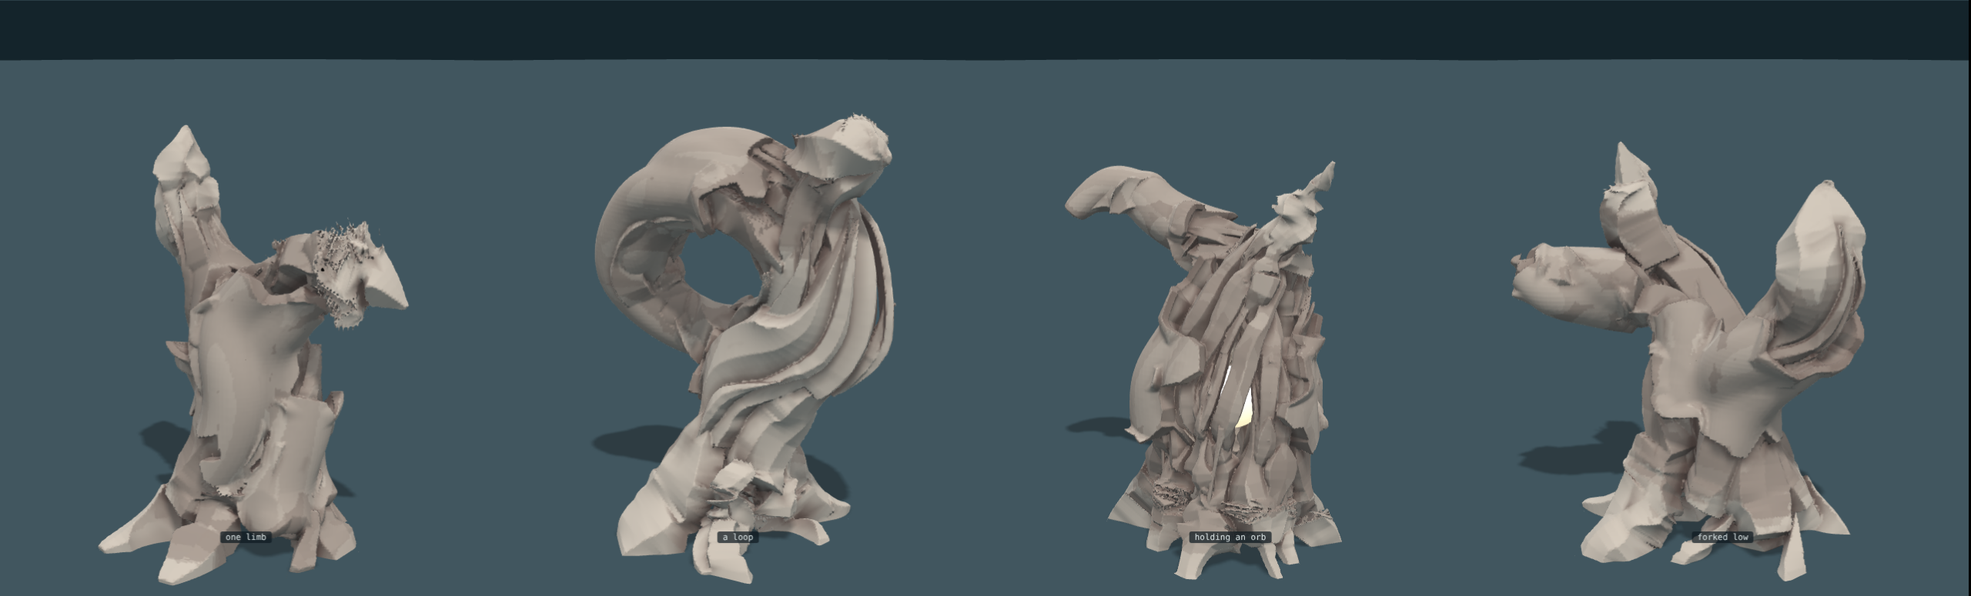
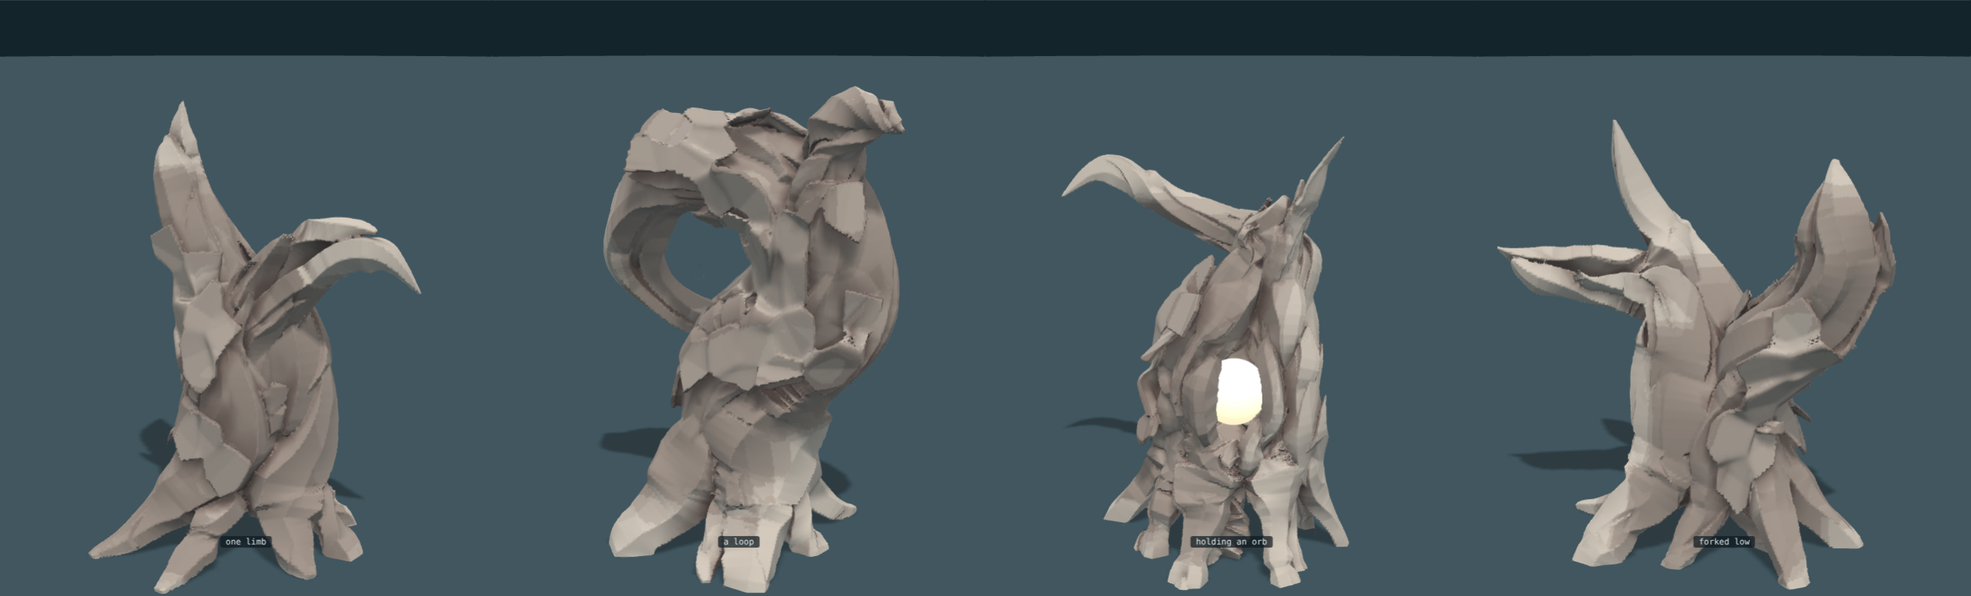
Bark as one creased sheet of flat plates resting on the wood; pieces overlap by their cut; tears start at spread heights; threads off; lips keep a thickness
Claude-Session: https://claude.ai/code/session_0192rgp75jGkttZXf7hEakip

diff --git a/sketch/page7.js b/sketch/page7.js
@@ -53,24 +53,30 @@
       return { g, dir }; });
     for (const [si, s] of t.strands.entries()) {
       // where a torn part still runs with what it tore from it is not drawn: there the two are one, and the other carries the girth
-      const fine = !!s.vine, ridge0 = 0.7 * (r() - 0.5); let kA = 0, kB = s.K - 1; if (fine && !s.thread) { while (kA < kB && s.rho[kA] < 0.013) kA++; while (kB > kA && s.rho[kB] < 0.013) kB--; if (kB - kA < 5) continue; }
-      const K = kB + 1; let k = kA, first = true;
+      const fine = !!s.vine, ridge0 = 0.7 * (r() - 0.5); let kA = 0, kB = s.K - 1; if (fine && !s.thread) { while (kA < kB && s.rho[kA] < 0.02) kA++; while (kB > kA && s.rho[kB] < 0.02) kB--; if (kB - kA < 5) continue; }
+      const K = kB + 1; let k = kA, first = true, backBy = 3;
       while (k < K - 1) {
         const rho0 = s.rho[Math.min(K - 1, k + 2)], want = chain && !s.thread ? Math.max(7, Math.round((7 + 10 * r()) * Math.max(rho0, 0.02) / 0.035)) : K; let k1 = Math.min(K - 1, k + want); if (K - 1 - k1 < 6) k1 = K - 1;
-        const k0 = first ? kA : Math.max(kA, k - 3), n = k1 - k0, last = k1 === K - 1, wide = (fine ? 0.95 : 1.15) + 0.2 * r(), high = (fine ? 0.8 : 0.62) + 0.25 * r(), stiff = chain ? 0.55 + 0.35 * r() : 0, proud = chain ? 0.1 + 0.25 * r() : 0, massW = 1.55 + 0.4 * r(), e = r(), ending = last ? 'own' : e < 0.4 ? 'point' : e < 0.75 ? 'blunt' : 'step';
+        const k0 = first ? kA : Math.max(kA, k - backBy), n = k1 - k0, last = k1 === K - 1, wide = (fine ? 0.95 : 1.15) + 0.2 * r(), high = (fine ? 0.8 : 0.62) + 0.25 * r(), stiff = chain ? 0.55 + 0.35 * r() : 0, proud = chain ? 0.1 + 0.25 * r() : 0, massW = 1.55 + 0.4 * r(), e = r(), ending = last ? 'own' : e < 0.4 ? 'point' : e < 0.75 ? 'blunt' : 'step';
         const A = at(s, k0), B = at(s, k1), C = [], O = [], W = [], Hh = [], D = [];
         for (let i = k0; i <= k1; i++) { const q = (i - k0) / n, base = at(s, i), rho = s.rho[i], off = [0, 1, 2].map((j) => A[j] + (B[j] - A[j]) * q - base[j]), far = H(off[0], off[1], off[2]) || 1e-9, stay = Math.min(stiff, 0.35 * rho / far);
           const no = nearOrb(base), tornHere = s.gap && s.inner && s.inner[i] ? Math.min(1, s.gap[i] / (1.2 * rho)) : 0, alone = 1 - sstep(0.9, 2.0, s.far[i] / rho), free = s.thread ? 1 : Math.max(no, tornHere, alone, 1 - sstep(s.root, s.root + 8, i)), body = mass * (1 - free),   // a strand running alone is a limb, not part of a mass
           toMid = Math.max(0.95 * rho, Math.min(s.far[i] * 0.9, (s.limb >= 0 ? 1.5 : 3.2) * rho));   // a limb is thin: reaching for its middle must not come out of its other side
-          const lift = first ? proud * q * q : -0.28 * (1 - sstep(0, 0.3, q)) + proud * q * q, front = ending === 'point' ? Math.pow(Math.min(1, (1 - q) / 0.3), 0.7) : 1, back = first ? 1 : 0.7 + 0.3 * sstep(0, 0.3, q), w = Math.min(wide, 1.05 + (wide - 1.05) * (1 - no)) + body * (massW - 1.05);
+          // (a torn part leaves and rejoins what it tore from from underneath: laid level with it there, the two surfaces run through each other and come out pitted)
+          const lift = (first ? (fine ? -0.9 * (1 - sstep(0, 0.35, q)) : 0) : -0.28 * (1 - sstep(0, 0.3, q))) + proud * q * q - (fine && last ? 0.9 * sstep(0.65, 1, q) : 0), front = ending === 'point' ? Math.pow(Math.min(1, (1 - q) / 0.3), 0.7) : 1, back = first ? 1 : 0.7 + 0.3 * sstep(0, 0.3, q), w = Math.min(wide, 1.05 + (wide - 1.05) * (1 - no)) + body * (massW - 1.05);
           let deepHere = rho * 0.95 + body * (toMid - rho * 0.95); if (t.orb) deepHere = Math.max(rho * 0.5, Math.min(deepHere, H(base[0] - t.orb.c[0], base[1] - t.orb.c[1], base[2] - t.orb.c[2]) - t.orb.room - 0.01));   // never into an orb's room
           const eg = ease[si].g[i], en = ease[si].dir[i], inn = s.inner && s.gap && s.gap[i] > 0 ? s.inner[i] : null, sv = eg || inn ? unit(cross(tan(s, i), s.O[i])) : null, gu = eg ? eg * dot(en, sv) : 0, gv = eg ? eg * dot(en, s.O[i]) : 0;   // the elbow's fill, across the strand and through it
           // a tear's lip: toward what it tore from, a part reaches a quarter of the way across the gap, so that
           // where the gap is narrow the two lips all but meet (a web with a slit), and where it is wide they stand apart
           let lipU = 0; if (inn) { const sg = dot(inn, sv); if (Math.abs(sg) > 0.4) lipU = Math.sign(sg) * roomToward(base, sv.map((v) => v * Math.sign(sg)), Math.min(0.25 * s.gap[i], 1.0 * rho), rho, si, s.fam); }
-          C.push([0, 1, 2].map((j) => base[j] + off[j] * stay + s.O[i][j] * rho * lift + (sv ? sv[j] * (gu + lipU) / 2 : 0))); O.push(s.O[i]); W.push(Math.max(0.006, rho * w * front * back + (Math.abs(gu) + Math.abs(lipU)) / 2)); Hh.push(rho * high * (0.6 + 0.4 * front) + Math.max(0, gv) * 0.5); D.push(deepHere + Math.max(0, -gv)); }
+          const home = fine && !s.thread && s.inner && s.inner[i] ? (first ? 1 - sstep(0, 0.35, q) : 0) + (last ? sstep(0.65, 1, q) : 0) : 0, hm = home ? home * (s.gap[i] + 0.6 * rho) : 0;   // its two ends bend back into what it tore from, so that it is never left hanging
+          C.push([0, 1, 2].map((j) => base[j] + off[j] * stay + s.O[i][j] * rho * lift + (sv ? sv[j] * (gu + lipU) / 2 : 0) + (hm ? s.inner[i][j] * hm : 0))); O.push(s.O[i]); W.push(Math.max(0.006, rho * w * front * back + (Math.abs(gu) + Math.abs(lipU)) / 2)); Hh.push(rho * high * (0.6 + 0.4 * front) + Math.max(0, gv) * 0.5); D.push(deepHere + Math.max(0, -gv)); }
         const w1 = W[W.length - 1], end = ending === 'own' ? (s.snapped ? { skew: (r() < 0.5 ? -1 : 1) * (1.8 + 1.4 * r()), step: r() < 0.5 ? { u: 0.5 * (r() - 0.5), side: r() < 0.5 ? -1 : 1, a: w1 * (0.8 + 1.4 * r()) } : null } : { skew: 0 })
           : ending === 'step' ? { skew: (r() < 0.5 ? -1 : 1) * (1.8 + 1.2 * r()), step: { u: 0.5 * (r() - 0.5), side: r() < 0.5 ? -1 : 1, a: w1 * (0.9 + 1.2 * r()) } } : ending === 'blunt' ? { skew: (r() < 0.5 ? -1 : 1) * (1.8 + 1.4 * r()) } : { skew: 0 };
+        // The next piece starts under this one's front, as far back as the front is cut away: a point takes the last
+        // third, a slant runs back by its skew times the width. Started any later it leaves a hole where the cut
+        // was, and a root or a limb, which has nothing beside it to hide the hole, comes apart there.
+        { const dsl = H(B[0] - at(s, k1 - 1)[0], B[1] - at(s, k1 - 1)[1], B[2] - at(s, k1 - 1)[2]) || 0.035, cutLen = ending === 'point' ? 0.3 * n * dsl : (end.skew ? 2 * Math.abs(end.skew) * w1 : 0) + (end.step ? end.step.a : 0); backBy = clamp(Math.ceil(cutLen / dsl) + 2, 3, Math.max(3, n - 2)); }
         // a part that has torn from another is thickest on its far side and thins to a lip toward the tear
         const mid = (k0 + k1) >> 1, inn = s.inner && s.inner[mid], sg = inn ? dot(inn, unit(cross(tan(s, mid), s.O[mid]))) : 0, torn = Math.abs(sg) > 0.4 ? Math.sign(sg) : 0, e1 = 0.2 + 0.5 * r(), e2 = 0.2 + 0.5 * r(), rd = clamp(ridge0 + 0.4 * (r() - 0.5), -0.6, 0.6);
         all.push(Object.assign(shard(Object.assign({ C, O, W, Hh, D, deep: Math.max(...D), seed: 1 + Math.floor(r() * 1e6), wiggle: 1, ridge: torn ? -0.4 * torn : rd, eL: torn < 0 ? 0.3 : torn > 0 ? 0.55 : e1, eR: torn > 0 ? 0.3 : torn < 0 ? 0.55 : e2, feather: torn, featherAmt: 0.78 }, s.thread ? { skew: 0 } : end)), { layer: fine || torn || (s.gap && s.gap[mid] > 0) ? 1 : 0 }));
@@ -132,56 +138,75 @@
     // is taken off again. Where bark stops, it stops on the boundary between two cells, so its edge is straight
     // runs and angles. The sheet itself is thin, flat-faced, of one thickness to its edge, and lies over the
     // strands, spanning the grooves between them. In places along the edge it has peeled.
-    const BK = recipe.bare || recipe.bark === 0 ? null : Object.assign({ cell: 0.055, stretch: 1.6, cover: 0.3, percolate: 0.985, cohere: 0.6, least: 12, thick: 0.018 }, recipe.bark || {}), rb = rng((recipe.seed || 1) + 123);
-    const wcell = 0.15, wgrid = new Map(), wkey = (x, y, z) => (Math.floor(x / wcell) + 512) * 1048576 + (Math.floor(y / wcell) + 512) * 1024 + Math.floor(z / wcell) + 512;
-    for (const q of t.strands) if (!q.thread) for (let i = 0; i < q.K; i++) { const p = [q.X[i * 3], q.X[i * 3 + 1], q.X[i * 3 + 2], q.rho[i]], k = wkey(p[0], p[1], p[2]), b = wgrid.get(k); if (b) b.push(p); else wgrid.set(k, [p]); }
-    // how far a place is outside the wood, taken softly so that the grooves between strands are bridged
-    const soft = 0.011, envelope = (x, y, z) => { let sum = 0; for (let a = -1; a <= 1; a++) for (let b = -1; b <= 1; b++) for (let c = -1; c <= 1; c++) { const g = wgrid.get(wkey(x + a * wcell, y + b * wcell, z + c * wcell)); if (!g) continue; for (const p of g) { const d = H(x - p[0], y - p[1], z - p[2]) - 0.88 * p[3]; if (d < 0.08) sum += Math.exp(-d / soft); } } return sum > 0 ? -soft * Math.log(sum) : 0.2; };
-    const hash3 = (i, j, k, n) => { let v = Math.imul(i, 374761393) ^ Math.imul(j, 668265263) ^ Math.imul(k, 1440662683) ^ Math.imul(n, 2246822519); v = Math.imul(v ^ (v >>> 13), 1274126177); return ((v ^ (v >>> 16)) >>> 0) / 4294967296; };
-    const vnoise = (x, y, z, n) => { const i = Math.floor(x), j = Math.floor(y), k = Math.floor(z), u = x - i, v = y - j, w = z - k, su = u * u * (3 - 2 * u), sv = v * v * (3 - 2 * v), sw = w * w * (3 - 2 * w), L = (a, b, t) => a + (b - a) * t;
-      return L(L(L(hash3(i, j, k, n), hash3(i + 1, j, k, n), su), L(hash3(i, j + 1, k, n), hash3(i + 1, j + 1, k, n), su), sv), L(L(hash3(i, j, k + 1, n), hash3(i + 1, j, k + 1, n), su), L(hash3(i, j + 1, k + 1, n), hash3(i + 1, j + 1, k + 1, n), su), sv), sw); };
+    const BK = recipe.bare || recipe.bark === 0 ? null : Object.assign({ cell: 0.075, stretch: 1.6, cover: 0.4, percolate: 0.985, cohere: 0.6, least: 10, thick: 0.02, peel: 0.18 }, recipe.bark || {}), rb = rng((recipe.seed || 1) + 123);
+    // which pieces are near which place, so that only those are asked
+    const cell = 0.12, grid = new Map(), key = (x, y, z) => (x + 64) * 16384 + (y + 64) * 128 + z + 64;
+    const index = (i) => { const s = all[i], seen = new Set(); s.C.forEach((c, j) => { const m = s.reach[j] + 0.06;
+      for (let x = Math.floor((c[0] - m) / cell); x <= Math.floor((c[0] + m) / cell); x++) for (let y = Math.floor((c[1] - m) / cell); y <= Math.floor((c[1] + m) / cell); y++) for (let z = Math.floor((c[2] - m) / cell); z <= Math.floor((c[2] + m) / cell); z++) { const k = key(x, y, z); if (seen.has(k)) continue; seen.add(k); const b = grid.get(k); if (b) b.push(i); else grid.set(k, [i]); } }); };
+    const solid = (x, y, z) => { const b = grid.get(key(Math.floor(x / cell), Math.floor(y / cell), Math.floor(z / cell))); let d = 0.1; if (b) for (const i of b) d = Math.min(d, all[i].f(x, y, z)); return d; };
+    all.forEach((s, i) => index(i));
     count.bark = 0; count.barkCells = 0; count.cells = 0;
     if (BK) {
       // the cells: points on the outside of the wood. A cell is long along the grain and narrow across it, as bark
       // tears: distance from a cell's point is counted short along its strand's direction. No point is nearer
       // another than a cell's width, so counted.
       const sp = BK.cell, st = BK.stretch, P = [], gs = Math.max(0.1, sp * st), sgrid = new Map(), skey = (x, y, z) => (Math.floor(x / gs) + 512) * 1048576 + (Math.floor(y / gs) + 512) * 1024 + Math.floor(z / gs) + 512, cand = [];
-      for (const q of t.strands) if (!q.thread) for (let i = q.root + 1; i < q.K - 1; i++) if (q.rho[i] > 0.02 && q.far[i] > 0.9 * q.rho[i]) { const T = tan(q, i), sv = unit(cross(T, q.O[i])); for (const e of [-0.8, 0, 0.8]) cand.push([0, 1, 2].map((c) => q.X[i * 3 + c] + (q.O[i][c] * 0.8 + sv[c] * e) * q.rho[i]).concat(T, q.far[i] + q.rho[i])); }
+      for (const q of t.strands) if (!q.thread) for (let i = q.root + 1; i < q.K - 1; i++) if (q.rho[i] > 0.012) { const bar = i < q.root + 5 || q.rho[i] <= 0.02 || q.far[i] <= 0.9 * q.rho[i] ? 1 : 0; const T = tan(q, i), sv = unit(cross(T, q.O[i])); for (const e of [-0.8, 0, 0.8]) { let n = [0, 1, 2].map((c) => q.O[i][c] * (q.far[i] + 0.8 * q.rho[i]) + sv[c] * e * q.rho[i]); const al = dot(n, T); n = unit(n.map((v, c) => v - T[c] * al)); cand.push([0, 1, 2].map((c) => q.X[i * 3 + c] + (q.O[i][c] * 0.8 + sv[c] * e) * q.rho[i]).concat(T, q.far[i] + q.rho[i], n, bar)); } }   // each with the way out from the middle of the wood there
       for (let i = cand.length - 1; i > 0; i--) { const j = Math.floor(rb() * (i + 1)), x = cand[i]; cand[i] = cand[j]; cand[j] = x; }
       const dist = (c, x, y, z) => { const vx = x - c[0], vy = y - c[1], vz = z - c[2], al = vx * c[3] + vy * c[4] + vz * c[5]; return Math.sqrt(Math.max(0, vx * vx + vy * vy + vz * vz - al * al) + (al / st) ** 2); };
       const nearSeeds = (x, y, z, fn) => { const cx = Math.floor(x / gs), cy = Math.floor(y / gs), cz = Math.floor(z / gs); for (let a = -2; a <= 2; a++) for (let b = -2; b <= 2; b++) for (let c = -2; c <= 2; c++) { const g = sgrid.get((cx + a + 512) * 1048576 + (cy + b + 512) * 1024 + cz + c + 512); if (g) for (const i of g) fn(i); } };
-      for (const c of cand) { if (t.orb && H(c[0] - t.orb.c[0], c[1] - t.orb.c[1], c[2] - t.orb.c[2]) < t.orb.room * 1.25) continue; let ok = true; nearSeeds(c[0], c[1], c[2], (i) => { if (ok && dist(c, P[i][0], P[i][1], P[i][2]) < sp) ok = false; }); if (!ok) continue; const k = skey(c[0], c[1], c[2]), g = sgrid.get(k); if (g) g.push(P.length); else sgrid.set(k, [P.length]); P.push(c); }
-      const N = P.length, nb = P.map((p, i) => { const out = []; nearSeeds(p[0], p[1], p[2], (j) => { if (j !== i && dist(p, P[j][0], P[j][1], P[j][2]) < 1.8 * sp) out.push(j); }); return out; }), girth = Math.max(...P.map((p) => p[6]));
+      // Bark may not lie on the foot, on a strand buried in the middle, on thin wood, or within reach of an orb's room. Those places have cells
+      // all the same, barred from being switched on, so that wherever bark stops it stops on a boundary between two cells.
+      for (const c of cand) { if (t.orb && H(c[0] - t.orb.c[0], c[1] - t.orb.c[1], c[2] - t.orb.c[2]) < t.orb.room * 1.35 + 0.6 * sp * st) c[10] = 1;
+        let ok = true; nearSeeds(c[0], c[1], c[2], (i) => { if (ok && dist(c, P[i][0], P[i][1], P[i][2]) < sp) ok = false; }); if (!ok) continue; const k = skey(c[0], c[1], c[2]), g = sgrid.get(k); if (g) g.push(P.length); else sgrid.set(k, [P.length]); P.push(c); }
+      const N = P.length, barred = P.map((p) => p[10]), nb = P.map((p, i) => { const out = []; nearSeeds(p[0], p[1], p[2], (j) => { if (j !== i && dist(p, P[j][0], P[j][1], P[j][2]) < 1.8 * sp) out.push(j); }); return out; }), girth = Math.max(...P.map((p) => p[6])); for (let i = 0; i < N; i++) if (P[i][6] < 0.4 * girth) barred[i] = 1;   // and not where the wood is a thin limb or a tip
       // swathes. cohere runs from 0 (a swathe reaches out in arms: it prefers a cell touching only one of its own)
       // to 1 (it stays compact: it prefers a cell touching several).
-      const on = new Uint8Array(N), tried = new Uint8Array(N), power = -3 + 7 * BK.cohere; let lit = 0, swathes = 0;
-      for (let go = 0; go < 2000 && lit < BK.cover * N; go++) {
-        const start = Math.floor(rb() * N); if (on[start] || tried[start] || rb() > (P[start][6] / girth) ** 2 || nb[start].some((j) => on[j])) continue; tried[start] = 1;   // bark begins where the wood is broad far more often than on a limb
+      const free = barred.filter((b) => !b).length, on = new Uint8Array(N), tried = new Uint8Array(N), power = -3 + 7 * BK.cohere; let lit = 0, swathes = 0;
+      for (let go = 0; go < 2000 && lit < BK.cover * free; go++) {
+        const start = Math.floor(rb() * N); if (on[start] || barred[start] || tried[start] || rb() > (P[start][6] / girth) ** 2 || nb[start].some((j) => on[j])) continue; tried[start] = 1;   // bark begins where the wood is broad far more often than on a limb
         const mine = [start], inIt = new Set(mine);
-        while (lit + mine.length < BK.cover * N && rb() < BK.percolate) { const front = new Map(); for (const i of mine) for (const j of nb[i]) if (!inIt.has(j) && !on[j]) front.set(j, (front.get(j) || 0) + 1); if (!front.size) break;
-          let total = 0; const w = []; for (const [j, c] of front) { const v = Math.pow(c, power); w.push([j, v]); total += v; } let pick = rb() * total, chosen = w[0][0]; for (const [j, v] of w) { pick -= v; if (pick <= 0) { chosen = j; break; } } mine.push(chosen); inIt.add(chosen); }
+        // (it spreads over broad wood sooner than out along a limb)
+        while (lit + mine.length < BK.cover * free && rb() < BK.percolate) { const front = new Map(); for (const i of mine) for (const j of nb[i]) if (!inIt.has(j) && !on[j] && !barred[j]) front.set(j, (front.get(j) || 0) + 1); if (!front.size) break;
+          let total = 0; const w = []; for (const [j, c] of front) { const v = Math.pow(c, power) * (P[j][6] / girth) ** 2; w.push([j, v]); total += v; } let pick = rb() * total, chosen = w[0][0]; for (const [j, v] of w) { pick -= v; if (pick <= 0) { chosen = j; break; } } mine.push(chosen); inIt.add(chosen); }
         if (mine.length < BK.least) continue;   // not worth having
         for (const i of mine) on[i] = 1; lit += mine.length; swathes++; }
       count.bark = swathes; count.barkCells = lit; count.cells = N;
-      // how far outside the wood, kept at the corners of a fine grid as they are asked for
-      const g0 = 0.02, memo = new Map(), Eat = (i, j, k) => { const key = (i + 512) * 1048576 + (j + 512) * 1024 + k + 512; let v = memo.get(key); if (v === undefined) { v = envelope(i * g0, j * g0, k * g0); memo.set(key, v); } return v; };
-      const th = BK.thick, peel = th * 2.2, seed = 1 + Math.floor(rb() * 1e6);
-      const f = (x, y, z) => { let d1 = 9, d0 = 9; nearSeeds(x, y, z, (i) => { const d = dist(P[i], x, y, z); if (on[i]) { if (d < d1) d1 = d; } else if (d < d0) d0 = d; });
-        if (d1 > 2 * sp) return 0.03; const border = (d0 - d1) / 2; let edge = Math.min(border, 1.6 * sp - d1); if (edge < -0.03) return 0.03;   // border: how far inside the boundary between a cell that is on and one that is off
+      // The sheet. Each cell that is on is one flat plate. It faces out from the middle of the wood and rests on the
+      // highest wood under it, so it spans the grooves between strands and lies over whatever stands proud; plates
+      // of neighbouring cells meet at an angle, or at a step where one rests higher. A plate on the border of its
+      // swathe is hinged: it lifts toward the open side, a little everywhere and far in places (peel: the share
+      // of border plates that have come away), and at the border the sheet is its own thickness and no more, so
+      // that it is seen to lie on the wood and not to be the wood.
+      const th = BK.thick, sit = 0.003, plates = new Array(N).fill(null);
+      for (let i = 0; i < N; i++) if (on[i]) { const p = P[i], T = [p[3], p[4], p[5]], n = [p[7], p[8], p[9]], u = cross(T, n); let h = -1;
+        for (const a of [-1, 0, 1]) for (const b of [-1, 0, 1]) { const q = [0, 1, 2].map((c) => p[c] + T[c] * a * 0.4 * sp * st + u[c] * b * 0.4 * sp), at = (tt) => solid(q[0] + n[0] * tt, q[1] + n[1] * tt, q[2] + n[2] * tt);
+          if (at(0.1) < 0) continue; let tt = 0.094; while (tt > -0.08 && at(tt) >= 0) tt -= 0.006; if (tt <= -0.08) continue;
+          let lo = tt, hi = tt + 0.006; for (let s = 0; s < 4; s++) { const m = (lo + hi) / 2; if (at(m) < 0) lo = m; else hi = m; } h = Math.max(h, hi); }
+        if (h === -1) h = 0;
+        const off = nb[i].filter((j) => !on[j]); let bd = null, slope = 0;
+        if (off.length) { let v = [0, 0, 0]; for (const j of off) { const d = unit([P[j][0] - p[0], P[j][1] - p[1], P[j][2] - p[2]]); v = v.map((x, c) => x + d[c]); } const al = dot(v, n); v = v.map((x, c) => x - n[c] * al);
+          if (H(v[0], v[1], v[2]) > 0.2) { bd = unit(v); slope = rb() < BK.peel ? 0.45 + 0.5 * rb() : 0.08 + 0.14 * rb(); } }
+        plates[i] = { n, h: h + sit, bd, slope }; }
+      // Between two plates the sheet does not break: over a narrow band it passes from one to the other, a crease
+      // where they meet at an angle and a ramp where one rests higher. Only a plate that has peeled is cut free of
+      // its neighbours along its sides, and stands as a flake.
+      const tau = 0.1 * sp, got = [];
+      const f = (x, y, z) => { let d1 = 9, d0 = 9, i1 = -1; got.length = 0; nearSeeds(x, y, z, (i) => { const d = dist(P[i], x, y, z); if (on[i]) { if (d < 2.2 * sp) got.push(i, d); if (d < d1) { d1 = d; i1 = i; } } else if (d < d0) d0 = d; });
+        if (d1 > 2 * sp) return 0.03; const border = (d0 - d1) / 2, pc = P[i1], vx = x - pc[0], vy = y - pc[1], vz = z - pc[2], al = Math.abs(vx * pc[3] + vy * pc[4] + vz * pc[5]), ac = Math.sqrt(Math.max(0, vx * vx + vy * vy + vz * vz - al * al));
+        let edge = Math.min(border, 1.5 * sp - Math.max(al / st, ac, 0.75 * (al / st + ac))); if (edge < -0.03) return 0.03;   // border: how far inside the boundary between a cell that is on and one that is off; with no cell beyond it, a cell ends eight-sided, not round
         if (t.orb) edge = Math.min(edge, H(x - t.orb.c[0], y - t.orb.c[1], z - t.orb.c[2]) - t.orb.room * 1.35);
-        const fi = x / g0, fj = y / g0, fk = z / g0, i = Math.floor(fi), j = Math.floor(fj), k = Math.floor(fk), wi = fi - i, wj = fj - j, wk = fk - k;
-        const e = ((Eat(i, j, k) * (1 - wk) + Eat(i, j, k + 1) * wk) * (1 - wj) + (Eat(i, j + 1, k) * (1 - wk) + Eat(i, j + 1, k + 1) * wk) * wj) * (1 - wi) + ((Eat(i + 1, j, k) * (1 - wk) + Eat(i + 1, j, k + 1) * wk) * (1 - wj) + (Eat(i + 1, j + 1, k) * (1 - wk) + Eat(i + 1, j + 1, k + 1) * wk) * wj) * wi;
-        const lip = sstep(0.035, 0, border), near = Math.max(0.35 * lip, sstep(0.06, 0, border) * sstep(0.52, 0.64, vnoise(x / 0.2, y / 0.2, z / 0.2, seed))), up = peel * near;   // its border curls up a little everywhere and has peeled in places
-        return Math.max(e - th - up, -0.035 + (0.035 + up * 0.85) * near - e, -edge * 0.9); };
-      const C = [], reach = []; for (let i = 0; i < N; i++) if (on[i]) { C.push(P[i].slice(0, 3)); reach.push(sp * st * 0.9 + th + peel); }
-      if (C.length) all.push({ f, C, reach, layer: 3 });
+        const flake = plates[i1].slope > 0.4; let sv = 0, sl = 0, sw = 0;
+        for (let a = 0; a < got.length; a += 2) { const i = got[a], q = plates[i]; if (i !== i1 && (flake || q.slope > 0.4 || got[a + 1] > d1 + 5 * tau)) continue; const p = P[i], w = Math.exp(-(got[a + 1] - d1) / tau);
+          sv += w * ((x - p[0]) * q.n[0] + (y - p[1]) * q.n[1] + (z - p[2]) * q.n[2] - q.h); sw += w;
+          if (q.bd) sl += w * Math.min(0.07, q.slope * Math.max(0, (x - p[0]) * q.bd[0] + (y - p[1]) * q.bd[1] + (z - p[2]) * q.bd[2] + 0.25 * sp)); }
+        const v = sv / sw, lift = sl / sw, thin = Math.max(sstep(0.003, 0.012, lift), sstep(0.03, 0.005, border)), bottom = -0.035 + (0.035 + lift) * thin;
+        return Math.max(v - lift - th, bottom - v, -edge * 0.9); };
+      const C = [], reach = []; for (let i = 0; i < N; i++) if (on[i]) { C.push(P[i].slice(0, 3)); reach.push(sp * st * 0.9 + th + 0.08 + plates[i].h); }
+      if (C.length) { all.push({ f, C, reach, layer: 3 }); index(all.length - 1); }
     }
-    // which strands are near which place, so that only those are asked
-    const cell = 0.12, grid = new Map(), key = (x, y, z) => (x + 64) * 16384 + (y + 64) * 128 + z + 64;
-    all.forEach((s, i) => { const seen = new Set(); s.C.forEach((c, j) => { const m = s.reach[j] + 0.06;
-      for (let x = Math.floor((c[0] - m) / cell); x <= Math.floor((c[0] + m) / cell); x++) for (let y = Math.floor((c[1] - m) / cell); y <= Math.floor((c[1] + m) / cell); y++) for (let z = Math.floor((c[2] - m) / cell); z <= Math.floor((c[2] + m) / cell); z++) { const k = key(x, y, z); if (seen.has(k)) continue; seen.add(k); const b = grid.get(k); if (b) b.push(i); else grid.set(k, [i]); } }); });
-    const o = t.orb, f = (x, y, z) => { const b = grid.get(key(Math.floor(x / cell), Math.floor(y / cell), Math.floor(z / cell))); let d = 0.1; if (b) for (const i of b) d = Math.min(d, all[i].f(x, y, z)); return d; };
     // which layer the surface belongs to at a place: that of whichever piece is nearest there
+    const o = t.orb, f = (x, y, z) => solid(x, y, z);
     f.layerAt = (x, y, z) => { const b = grid.get(key(Math.floor(x / cell), Math.floor(y / cell), Math.floor(z / cell))); let d = 9, l = 0; if (b) for (const i of b) { const v = all[i].f(x, y, z); if (v < d) { d = v; l = all[i].layer || 0; } } return l; };
     f.orb = o; f.measure = t.measure; f.count = count; return f;
   }
@@ -194,5 +219,5 @@
   ];
   if (typeof location !== 'undefined') { const only = new URLSearchParams(location.search).get('only'); if (only) { const keep = only.split(',').map(Number).map((i) => S[i]).filter(Boolean); S.length = 0; S.push(...keep); } }   // ?only=2 builds just that tree
   window.Trees7 = { tree };   // later pages build on this
-  window.Fantastic = { names: S.map((s) => s[0]), orbs: S.map((s) => s[1].orb), measures: S.map((s) => s[1].measure), counts: S.map((s) => s[1].count), build: (i) => { const g = mesh(S[i][1], S[i][0], S[i][2] || 0.0095, 2.05), n = g.pos.length / 3; g.layer = new Uint8Array(n); for (let q = 0; q < n; q++) g.layer[q] = S[i][1].layerAt(g.pos[q * 3] - g.nrm[q * 3] * 0.004, g.pos[q * 3 + 1] - g.nrm[q * 3 + 1] * 0.004, g.pos[q * 3 + 2] - g.nrm[q * 3 + 2] * 0.004); return g; }, mesh, kit: Fantastic.kit };
+  window.Fantastic = { fields: S.map((s) => s[1]), names: S.map((s) => s[0]), orbs: S.map((s) => s[1].orb), measures: S.map((s) => s[1].measure), counts: S.map((s) => s[1].count), build: (i) => { const g = mesh(S[i][1], S[i][0], S[i][2] || 0.0095, 2.05), n = g.pos.length / 3; g.layer = new Uint8Array(n); for (let q = 0; q < n; q++) g.layer[q] = S[i][1].layerAt(g.pos[q * 3] - g.nrm[q * 3] * 0.004, g.pos[q * 3 + 1] - g.nrm[q * 3 + 1] * 0.004, g.pos[q * 3 + 2] - g.nrm[q * 3 + 2] * 0.004); return g; }, mesh, kit: Fantastic.kit };
 })();

diff --git a/trees.js b/trees.js
@@ -104,11 +104,11 @@
     // rejoin beyond it. Either may divide again. So the most pressed end up the finest, and a fine strand is
     // what is left of a heavy one. (Run 012: this one rule gave thin strands over a body, forks, crossings,
     // and the thinnest nearest.)
-    const SP = orb && P.orb.split ? Object.assign({ at: 0.5, every: 40, floor: 0.012, most: 160, neck: 1.0, least: 0.009, strings: 1, run: 34 }, P.orb.split === true ? {} : P.orb.split) : null; let forks = 0;
+    const SP = orb && P.orb.split ? Object.assign({ at: 0.5, every: 40, floor: 0.012, most: 160, neck: 1.0, least: 0.009, strings: 0, run: 34 }, P.orb.split === true ? {} : P.orb.split) : null; let forks = 0;
     const rs = rng(P.seed + 55);
     const divide = (i) => { const s = S[i], n = s.K; let a = -1, b = -1; for (let k = Math.max(1, s.root); k < n - 1; k++) if (s.on[k]) { if (a < 0) a = k; b = k; } if (a < 0) return;
       // a tear runs on along the grain past where the strand was pressed: a little, or a long way, each end its own
-      const ka = Math.max(1, s.root + 5 + Math.floor(14 * rs()), a - 4 - Math.floor(SP.run * rs() * rs())),   // and never down to where the roots begin, where they would all end in a ring
+      const low = Math.max(1, s.root + 2), ka = Math.max(low, a - 3 - Math.floor(Math.min(SP.run * rs() * rs(), Math.max(0, a - 3 - low) * rs()))),   // a tear starts anywhere between the foot and the press, each at its own height: held to one height they make a ring
         kb = Math.min(n - 2, b + 4 + Math.floor(SP.run * rs() * rs())); if (kb - ka < 8) return; for (let k = ka; k <= kb; k++) if (s.rho[k] / Math.SQRT2 < SP.floor) return;
       const nc = kb - ka + 1, X = new Float64Array(nc * 3), rr = new Float64Array(nc);
       for (let m = 0; m < nc; m++) { const k = ka + m, p = [s.X[k * 3], s.X[k * 3 + 1], s.X[k * 3 + 2]], tg = [0, 1, 2].map((q) => s.X[(k + 1) * 3 + q] - s.X[(k - 1) * 3 + q]), side = unit(cross(tg, [p[0] - orb.c[0], p[1] - orb.c[1], p[2] - orb.c[2]]));

diff --git a/sketch/page5.js b/sketch/page5.js
@@ -66,7 +66,9 @@
       const dp = K.D ? lerp(K.D[bi], K.D[bi + 1], bt) : K.deep;   // how far it goes down below its line: one depth, or one for each step of it
       const cut = (K.inset ? Math.abs(K.skew) * (w + Math.sign(K.skew) * u) : K.skew * u) + (K.step && (u - K.step.u * w) * K.step.side > 0 ? K.step.a : 0);
       // feather: toward one edge the piece thins, above and below, to a lip (a torn edge is drawn thin, not cut square)
-      const thin = K.feather ? 1 - K.featherAmt * clamp(K.feather * u / w, 0, 1) : 1, roofH = u < xm ? yl + (u + w) * (h - yl) / (xm + w) : yr + (w - u) * (h - yr) / (w - xm), vf = vv + roofH * (1 - thin);
+      // (the lip keeps a thickness that can be seen and meshed: thinner than that it comes out as pitted crumbs)
+      const roofH = u < xm ? yl + (u + w) * (h - yl) / (xm + w) : yr + (w - u) * (h - yr) / (w - xm),
+        thin = K.feather ? Math.max(1 - K.featherAmt * clamp(K.feather * u / w, 0, 1), Math.min(1, 0.018 / (roofH + dp + 1e-9))) : 1, vf = vv + roofH * (1 - thin);
       let d = Math.max(((u + w) * lx + (vf - yl) * ly) / H(lx, ly), ((u - xm) * rx + (vf - h) * ry) / H(rx, ry), -u - w, u - w, -vv - dp * thin, -s, s - L[n - 1] + cut, pre ? -1 : Math.abs(along) - 0.03);   // and never out past a fold in its own line
       if (gap) d = Math.max(d, Math.min(gap - Math.abs(u - cu), v + sp.depth * K.deep));
       return d;

diff --git a/sketch/page8.js b/sketch/page8.js
@@ -9,5 +9,6 @@
     ['many, small', R({ percolate: 0.95, cohere: 0.6 })],
     ['most of the tree', R({ cover: 0.65, percolate: 0.997, cohere: 0.6 })],
   ];
+  if (typeof location !== 'undefined') { const only = new URLSearchParams(location.search).get('only'); if (only) { const keep = only.split(',').map(Number).map((i) => S[i]).filter(Boolean); S.length = 0; S.push(...keep); } }   // ?only=2 builds just that one
   window.Fantastic = { names: S.map((s) => s[0]), orbs: S.map((s) => s[1].orb), counts: S.map((s) => s[1].count), build: (i) => { const g = mesh(S[i][1], S[i][0], 0.0095, 2.05), n = g.pos.length / 3; g.layer = new Uint8Array(n); for (let q = 0; q < n; q++) g.layer[q] = S[i][1].layerAt(g.pos[q * 3] - g.nrm[q * 3] * 0.004, g.pos[q * 3 + 1] - g.nrm[q * 3 + 1] * 0.004, g.pos[q * 3 + 2] - g.nrm[q * 3 + 2] * 0.004); return g; }, mesh, kit: Fantastic.kit };
 })();

diff --git a/LOG.md b/LOG.md
@@ -2255,3 +2255,107 @@ Wrong, or not there:
   teeth, not the large points of the sketch given earlier.
 - Swathes favour limbs, because a limb is where a spreading swathe can
   wrap right round and find most neighbours.
+
+## Bark as a creased sheet; three faults found under it
+
+The smooth sleeve was the fault to mend. Chasing it turned up three others
+that were not the bark's.
+
+**Strands faced the wrong way on limbs.** The ragged patch that had sat on
+the one-limb tree's limb for many rounds was still there with the chain,
+the mass and every outer layer switched off, so it was in the structure.
+A strand's outward side was taken as "away from the middle of all the wood
+near it". On a limb the wood near it is mostly the same limb further
+along, so a strand faced along its own length. Now each strand faces away
+from the middle of its own bundle at that step, square to its own
+direction. All limbs came out as clean bundles of blades.
+
+**Pieces left holes where their fronts were cut.** A mesh of each tree,
+split into separate bodies, showed two roots and a shell plate that
+touched nothing (`holding an orb`: a root 0.25 long lying on the ground
+beside the tree; `a loop`: the same). A slanted front, since it was made
+to cut back into its piece and not out past it, runs back by twice its
+skew times the width: up to 0.5 on a thick strand. The next piece started
+only three steps (0.1) back. In the trunk the mass hid the hole. A root
+has nothing beside it. Now the next piece starts as far back as the front
+before it is cut away. No separate body larger than a chip remains on any
+of the four. (The count is a check to look with, not a judge: the largest
+bodies left are hollows shut inside the trunk, which it cannot tell from
+loose pieces.)
+
+**Crumbs under the orb.** Three causes, one after another.
+- Tears all started at one height. Stopping them at the roots had made a
+  ring at the feet; my mend for that pushed them into a band just under
+  the orb instead. A tear now starts anywhere between the foot and where
+  the strand is pressed.
+- The fine threads across closing splits (16 to 25 a tree, 0.01 to 0.02
+  thick) are thinner than the mesh can draw and came out as grit. They are
+  off (`strings: 0`). The thread idea is not withdrawn, only not drawable
+  at this size.
+- A torn part's lip thinned to less than the mesh, and its two ends lay
+  level with what it tore from, the two surfaces running through each
+  other. The lip keeps a thickness of 0.018; the ends go in from
+  underneath and bend back into the parent.
+Less remains than before, not none: `sketch/page7-orb-under-close.png`
+still has rough spots at two joins below the orb.
+
+**The bark.** Two tries.
+
+Withdrawn first (`sketch/page7-bark-skin-withdrawn.png`): the sheet
+followed a smoothed surface over the strands. Thinner and tighter it was
+still a melted skin, and it erased the flat faces of the wood under it.
+
+Withdrawn second (`sketch/page7-bark-scales-withdrawn.png`): each cell one
+flat plate resting on the highest wood under it. Flat faces, but every
+plate separate with a crack round it. Scales again.
+
+Kept: the plates, joined. Each cell that is on is a flat plate facing out
+from the middle of the wood and resting on the highest wood under it (the
+drawn wood, shell and slivers included, so nothing pokes through). Between
+two plates the sheet passes from one to the other over a narrow band: a
+crease where they meet at an angle, a ramp where one rests higher. A plate
+on the border is hinged and lifts toward the open side, a little
+everywhere; a share of them (`peel`, 0.18) lift far and are cut free along
+their sides, as flakes. At the border the sheet is its own thickness
+(0.02) and no more, so it is seen to lie on the wood.
+
+Also:
+- Every place bark could border on has a cell, and cells where bark may
+  not lie are barred: the foot, strands buried in the middle, thin wood, a
+  limb or tip under 0.4 of the tree's greatest breadth, and anything within
+  reach of an orb's room. So every border is a boundary between two cells.
+  Before, bark beside the orb was cut on a round, and a cell with nothing
+  beyond it ended on a round; where there is still no cell beyond, a cell
+  now ends eight-sided.
+- Cells are larger (0.075, 1.6 times as long along the grain), 140 to 250
+  a tree. `cover` 0.4 of the cells that are free.
+- A swathe starts on broad wood and spreads over broad wood sooner than
+  out along a limb.
+
+What it does (`sketch/page7.png`, `sketch/page7-layers.png`,
+`sketch/page7-other-side.png`; `sketch/page8.png`,
+`sketch/page8-layers.png`): bark is one to three angular sheets a tree, on
+the trunk and the thick of the limbs, creased in flat faces, with an edge
+that has thickness and stands off the wood in places. The strands show
+beside it and the limbs are left bare. On page 8 the four spreads now
+differ plainly: compact is one solid patch, reaching has arms and holes in
+it, many-and-small is three patches, most-of-the-tree wraps the trunk.
+
+Surprised me: resting each plate on the wood, and not on a smoothed
+surface, is what made the bark read as a separate thing. A plate over a
+groove shows the groove at its edge.
+
+Wrong, or not there:
+- `a loop` is the busiest: where the trunk twists hard the plates differ
+  most in tilt and the sheet looks like loose tiles.
+- A sheet's inside can dip into the wood where the wood is hollow along
+  its length (inside of a bend, a crotch): the plates are flat and the
+  surface is not.
+- The orb tree's worst overlap between two strands rose from 0.26 to 0.46
+  of their joined girth at one place when the tears were spread. A longer
+  clearing phase does not change it. Not looked into.
+- Light caps at some limb tips with a hard line under them: the last piece
+  of the chain is wide enough to wrap the limb, and its start shows as a
+  step all the way round.
+- Nothing peels free at one end and hangs. Knots, hollows and notches are
+  still not begun.
